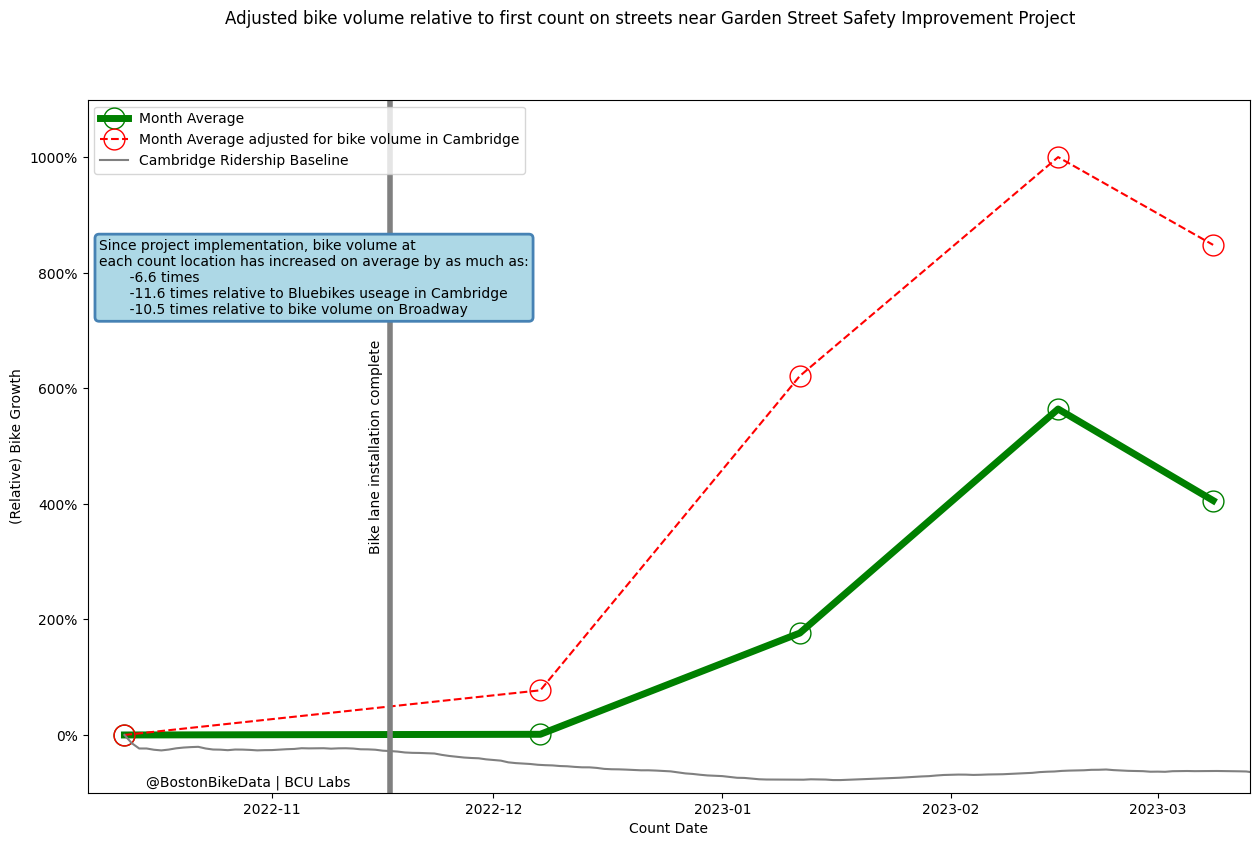
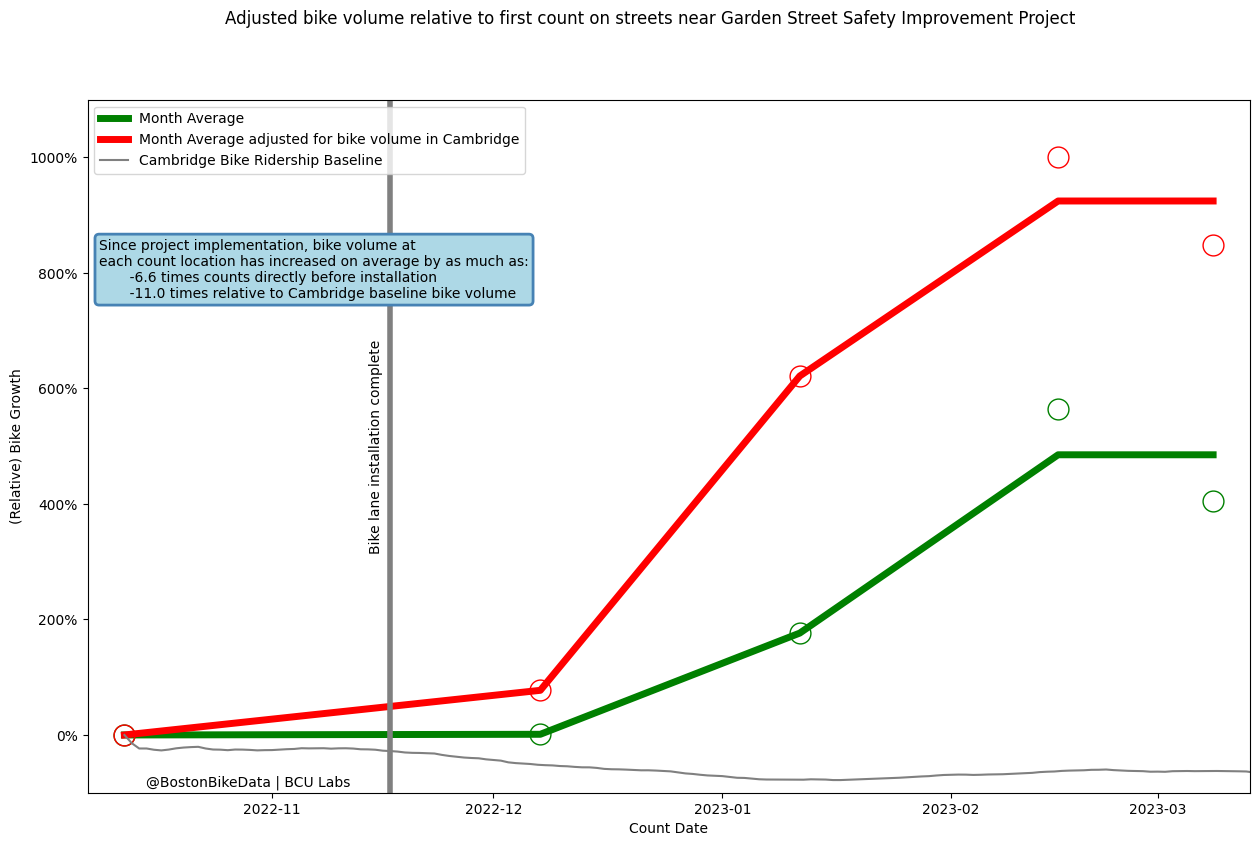
in progress cleaning up plots

diff --git a/dataSources/garden st/extract_garden_data.py b/dataSources/garden st/extract_garden_data.py
@@ -383,6 +383,9 @@ def data_analysis(dfData, dfBB, dfBway):
     growthSummary['Adjusted_Growth_Bway_0'] = growthSummary['Adjusted_Growth_Bway_100'] - 100
     growthSummary['Adjusted_Growth_Baseline_0'] = growthSummary['Adjusted_Growth_Baseline_100'] - 100
 
+    # growthSummary['Baseline_Adjusted_100'] = 100 * growthSummary['Bike_Growth_frac'] / growthSummary['Baseline_frac']
+    # growthSummary['Baseline_Adjusted_0'] = dfNormalizedMean['Baseline_Adjusted_100'] - 100
+
     # dfDate['Adjusted_Growth'] = (((dfDate['Bike_Growth'] + 100)/100) / ((growthMean['Bluebikes'] + 100)/100) * 100 ) - 100
 
     # Bike mode share by count group
@@ -434,23 +437,26 @@ def plot_mode_share(df, dfDate):
     ax.yaxis.set_major_formatter(mtick.PercentFormatter())
 
     # Plot mean growth numbers
-    plt.plot(df['Datetime'], df['Bike_Car_Share'],
-             color='purple', marker='o', markersize=markersize,
+    plt.plot(df.index, df['Bike_Car_Share'],
+             marker='o', markersize=markersize,
              markerfacecolor='none', markeredgecolor='purple',
-             linewidth=linewidth,
+             linestyle='None')
+    plt.plot(df.index, df['Bike_Car_Share'].rolling('56D', center=True).mean(),
+             color='purple', linewidth=linewidth,
              label='Month Average')
 
-    for loc in dfDate.groupby('Location'):
-        ax.scatter(loc[1]['Datetime'], loc[1]
-                   ['Bike_Car_Share'], label=loc[0], marker='.', s=s)
+    # # Plot individual count markers
+    # for loc in dfDate.groupby('Location'):
+    #     ax.scatter(loc[1]['Date'], loc[1]
+    #                ['Bike_Car_Share'], label=loc[0], marker='.', s=s)
 
     # Add line for project completion
     ax = project_marker(ax)
 
     # Annotate
     shareMax = df['Bike_Car_Share'].max()
-    shareInit = df[df['Datetime'] ==
-                   df['Datetime'].min()]['Bike_Car_Share'].iloc[0]
+    shareInit = df[df['Date'] ==
+                   df['Date'].min()]['Bike_Car_Share'].iloc[0]
     sharePoint = shareMax - shareInit
     shareIncrease = shareMax / shareInit + 1
     print(f'Bike Mode Share percentage point increase: {sharePoint:0.1f}')
@@ -491,10 +497,12 @@ def plot_bike_growth(df, dfDate, dfBB, dfBway, dfTotal, dfBaseline):
     ax.yaxis.set_major_formatter(mtick.PercentFormatter())
 
     # Plot mean growth numbers
-    plt.plot(df['Date'], df['Bike_Growth_0'],
-             color='red', marker='o', markersize=markersize, 
-             markerfacecolor='none', markeredgecolor='r',
-             linewidth=linewidth,
+    plt.plot(df.index, df['Bike_Growth_0'],
+             marker='o', markersize=markersize,
+             markerfacecolor='none', markeredgecolor='red',
+             linestyle='None')
+    plt.plot(df.index, df['Bike_Growth_0'].rolling('56D', center=True).mean(),
+             color='red', linewidth=linewidth,
              label='Month Average')
 
     # # Plot Bluebikes data
@@ -507,12 +515,12 @@ def plot_bike_growth(df, dfDate, dfBB, dfBway, dfTotal, dfBaseline):
     
     # Plot Baseline data
     plt.plot(dfBaseline.index, dfBaseline['Baseline_Rolling_0'],
-             label='Cambridge Ridership Baseline', color='gray')
+             label='Cambridge Bike Ridership Baseline', color='gray')
 
-    # Plot each day's count data
-    for loc in dfDate.groupby('Location'):
-        plt.scatter(loc[1]['Date'], loc[1]
-                    ['Bike_Growth_0'], label=loc[0], marker='.', s=s)
+    # # Plot each day's count data
+    # for loc in dfDate.groupby('Location'):
+    #     plt.scatter(loc[1]['Date'], loc[1]
+    #                 ['Bike_Growth_0'], label=loc[0], marker='.', s=s)
         
     # Add line for project completion
     ax = project_marker(ax)
@@ -537,7 +545,8 @@ def plot_bike_growth(df, dfDate, dfBB, dfBway, dfTotal, dfBaseline):
     plt.legend()
     plt.xlabel('Count Date')
     plt.ylabel('Bike Growth')
-    plt.ylim([-100, 850])
+    # plt.ylim([-100, 850])
+    plt.ylim([-100, 650])
     plt.suptitle(
         'Bike volume growth relative to first count on streets near Garden Street Safety Improvement Project')
     # plt.title('Garden St. project implemented in Novemeber 2022')
@@ -578,7 +587,7 @@ def plot_bike_growth_experimental(df, dfDate, dfBB, dfBway, dfTotal, dfBaseline)
     
     # Plot Baseline data
     plt.plot(dfBaseline.index, dfBaseline['Baseline_Rolling_0'],
-             label='Cambridge Ridership Baseline', color='gray')
+             label='Cambridge Bike Ridership Baseline', color='gray')
 
     # Plot each day's count data
     for loc in dfDate.groupby('Location'):
@@ -623,10 +632,17 @@ def plot_bike_volume(df, dfDate, dfBB, dfBway, dfTotal, dfBaseline):
     ax.yaxis.set_major_formatter(mtick.PercentFormatter())
 
     # Plot mean growth numbers
+    # plt.plot(dfTotal['Date'], dfTotal['Norm'],
+    #          color='g', marker='o', markersize=markersize, 
+    #          markerfacecolor='none', markeredgecolor='g',
+    #          linewidth=linewidth,
+    #          label='Bike Volume Across all Count Locations')
     plt.plot(dfTotal['Date'], dfTotal['Norm'],
-             color='g', marker='o', markersize=markersize, 
+             marker='o', markersize=markersize,
              markerfacecolor='none', markeredgecolor='g',
-             linewidth=linewidth,
+             linestyle='None')
+    plt.plot(dfTotal['Date'], dfTotal['Norm'].rolling('56D', center=True).mean(),
+             color='g', linewidth=linewidth,
              label='Bike Volume Across all Count Locations')
 
     # # Plot Bluebikes data
@@ -639,7 +655,7 @@ def plot_bike_volume(df, dfDate, dfBB, dfBway, dfTotal, dfBaseline):
     
     # Plot Baseline data
     plt.plot(dfBaseline.index, dfBaseline['Baseline_Rolling_0'],
-             label='Cambridge Ridership Baseline', color='gray')
+             label='Cambridge Bike Ridership Baseline', color='gray')
     
     # Add line for project completion
     ax = project_marker(ax)
@@ -680,24 +696,42 @@ def plot_volume_adjusted(df, dfDate, dfBB, dfBway, dfTotal, dfBaseline):
     ax.yaxis.set_major_formatter(mtick.PercentFormatter())
 
     # Plot mean growth numbers
-    plt.plot(df['Date'], df['Bike_Growth_0'],
-             color='green', #linestyle='--',
-             marker='o', markersize=markersize, 
+    # plt.plot(df['Date'], df['Bike_Growth_0'],
+    #          color='green', #linestyle='--',
+    #          marker='o', markersize=markersize, 
+    #          markerfacecolor='none', markeredgecolor='green',
+    #          linewidth=linewidth,
+    #          label='Month Average')
+    plt.plot(df.index, df['Bike_Growth_0'],
+             marker='o', markersize=markersize,
              markerfacecolor='none', markeredgecolor='green',
-             linewidth=linewidth,
+             linestyle='None')
+    plt.plot(df.index, df['Bike_Growth_0'].rolling('56D', center=True).mean(),
+             color='green', linewidth=linewidth,
              label='Month Average')
+    
+    # Plot Adjusted Values
     # plt.plot(df['Date'], df['Adjusted_Growth_BB_0'],
     #          color='blue', marker='o', markersize=markersize, 
     #          markerfacecolor='none', markeredgecolor='b',
     #          label='Month Average adjusted for Bluebikes Ridership')
+
     # plt.plot(df['Date'], df['Adjusted_Growth_Bway_0'],
     #          color='darkorange', marker='o', markersize=markersize, 
     #          markerfacecolor='none', markeredgecolor='darkorange',
     #          label='Month Average adjusted for bike volume on Broadway')
-    plt.plot(df['Date'], df['Adjusted_Growth_Baseline_0'],
-             color='red', linestyle='--',
-             marker='o', markersize=markersize, 
+
+    # plt.plot(df['Date'], df['Adjusted_Growth_Baseline_0'],
+    #          color='red', linestyle='--',
+    #          marker='o', markersize=markersize, 
+    #          markerfacecolor='none', markeredgecolor='red',
+    #          label='Month Average adjusted for bike volume in Cambridge')
+    plt.plot(df.index, df['Adjusted_Growth_Baseline_0'],
+             marker='o', markersize=markersize,
              markerfacecolor='none', markeredgecolor='red',
+             linestyle='None')
+    plt.plot(df.index, df['Adjusted_Growth_Baseline_0'].rolling('56D', center=True).mean(),
+             color='red', linewidth=linewidth,
              label='Month Average adjusted for bike volume in Cambridge')
 
     # # Plot Bluebikes data
@@ -710,7 +744,7 @@ def plot_volume_adjusted(df, dfDate, dfBB, dfBway, dfTotal, dfBaseline):
     
     # Plot Baseline data
     plt.plot(dfBaseline.index, dfBaseline['Baseline_Rolling_0'],
-             label='Cambridge Ridership Baseline', color='gray')
+             label='Cambridge Bike Ridership Baseline', color='gray')
     
     # Add line for project completion
     ax = project_marker(ax)
@@ -718,11 +752,12 @@ def plot_volume_adjusted(df, dfDate, dfBB, dfBway, dfTotal, dfBaseline):
     # Notes on max improvements
     noteHeader = 'Since project implementation, bike volume at \neach count location has increased on average by as much as:'
     noteTab = '\n       -'
-    noteRaw = f'{noteTab}{df.Bike_Growth_0.max()/100+1:.1f} times'
-    noteBB = f'{noteTab}{df.Adjusted_Growth_BB_0.max()/100+1:.1f} times relative to Bluebikes useage in Cambridge'
-    noteBway = f'{noteTab}{df.Adjusted_Growth_Bway_0.max()/100+1:.1f} times relative to bike volume on Broadway'
+    noteRaw = f'{noteTab}{df.Bike_Growth_0.max()/100+1:.1f} times counts directly before installation'
+    # noteBB = f'{noteTab}{df.Adjusted_Growth_BB_0.max()/100+1:.1f} times relative to Bluebikes useage in Cambridge'
+    # noteBway = f'{noteTab}{df.Adjusted_Growth_Bway_0.max()/100+1:.1f} times relative to bike volume on Broadway'
+    noteBaseline = f'{noteTab}{df.Adjusted_Growth_Baseline_0.max()/100+1:.1f} times relative to Cambridge baseline bike volume'
     ax.text(
-        0.01, 0.8, f'{noteHeader}{noteRaw}{noteBB}{noteBway}',
+        0.01, 0.8, f'{noteHeader}{noteRaw}{noteBaseline}',
         transform=ax.transAxes, ha='left', va='top',
         bbox=dict(boxstyle="round,pad=0.3",
                   fc="lightblue", ec="steelblue", lw=2)
@@ -882,8 +917,13 @@ def main():
         dfGardenCounts, dfBluebikes, dfBroadway)
 
 # %% Make the plots!
+    dfGrowthSummary.set_index('Date', inplace=True, drop=False)
+    dfGrowthSummary.index.rename('DateIdx')
 
-    # plot_mode_share(dfGrowthSummary, dfGrowthCounters)
+    dfSummaryMean.set_index('Date', inplace=True, drop=False)
+    dfSummaryMean.index.rename('DateIdx')
+
+    plot_mode_share(dfGrowthSummary, dfGrowthCounters)
     plot_bike_growth(dfGrowthSummary, dfGrowthCounters, 
                      dfBluebikes, dfBroadway, 
                      dfSummaryMean, dfBaseline)
@@ -898,8 +938,8 @@ def main():
                          dfBluebikes, dfBroadway, 
                          dfSummaryMean, dfBaseline)
 
-    # plot_bike_growth_map(countLocations, projectArea, dfGrowthCounters)
-    # plot_bike_volume_map(countLocations, projectArea, dfGrowthCounters)
+    plot_bike_growth_map(countLocations, projectArea, dfGrowthCounters)
+    plot_bike_volume_map(countLocations, projectArea, dfGrowthCounters)
 
 if __name__ == '__main__':
     main()
